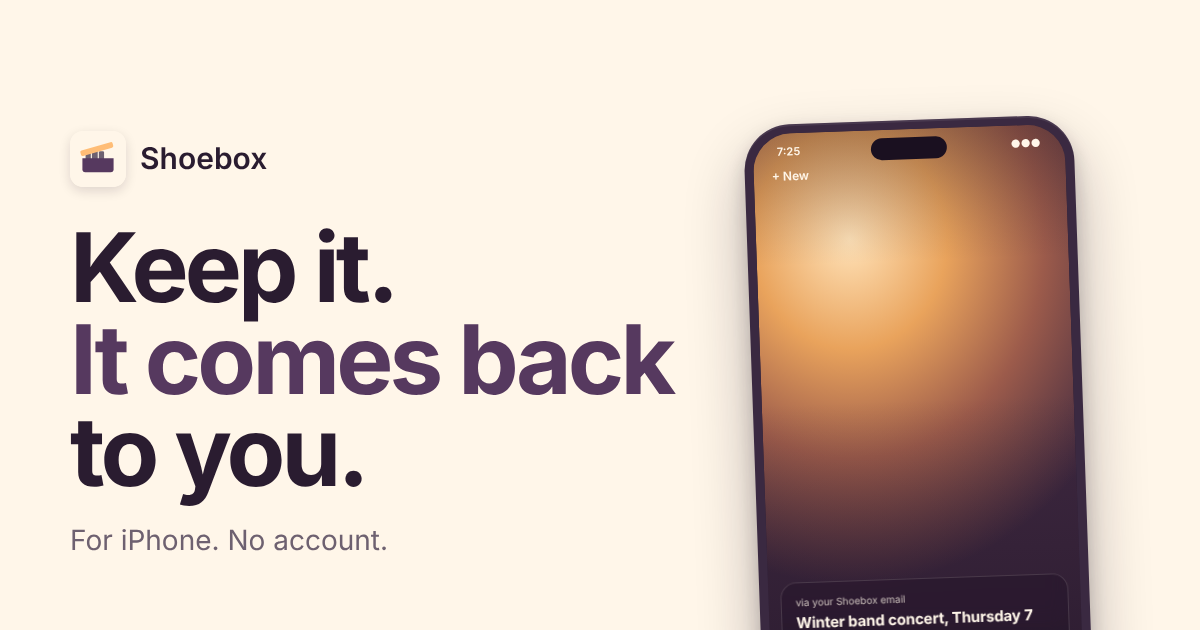
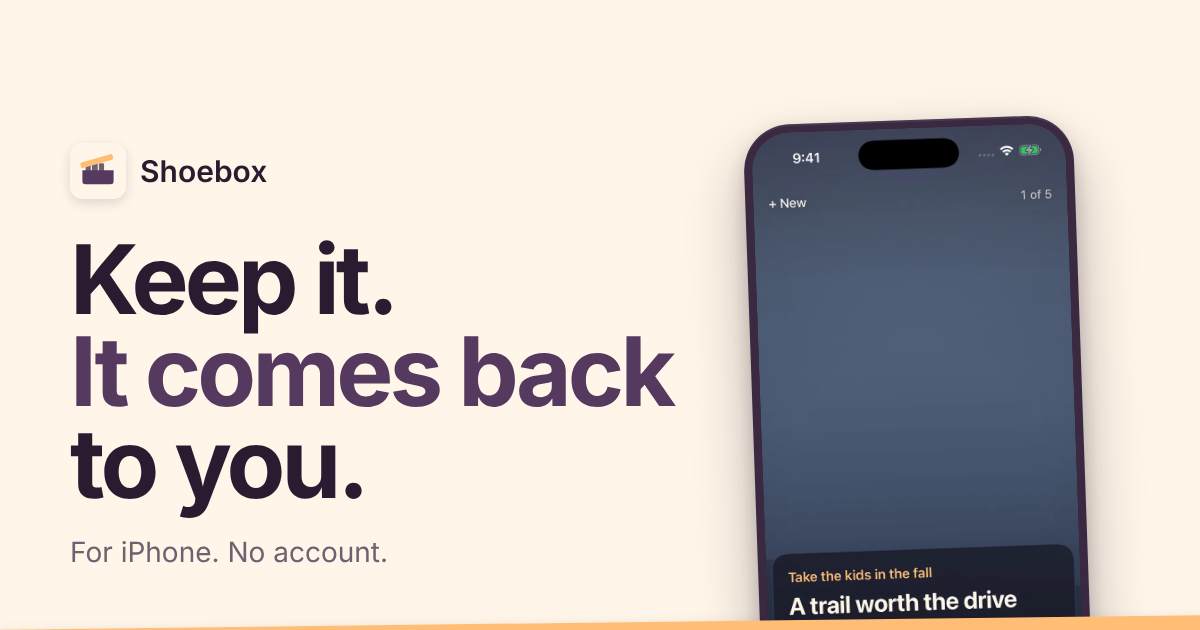
Real app screenshots on the welcome page and share image (#168)
Claude-Session: https://claude.ai/code/session_01JnUP83vyDZ5LaLaAc6odGW

diff --git a/welcome.html b/welcome.html
@@ -32,28 +32,7 @@
     <div class="ctas"><a class="btn lid" href="beta">Ask for the iPhone beta</a><a class="btn word" href="#moves">How it works</a></div>
     <p class="note">Free. No account. iPhone with iOS 26.</p>
   </div>
-  <div class="stage"><div class="phone" aria-hidden="true"><div class="scr dark">
-  <div class="isl"></div><div class="sb on-pic"><span>7:25</span><span>●●●</span></div>
-  <div class="pic sun"></div><div class="plus">+ New</div>
-  <div class="glass"><small>via your Shoebox email</small><b>Winter band concert, Thursday 7 pm</b><span>School gym. Be there by 6:30 in black and white.</span></div>
-  <div class="why">Bring the trumpet</div>
-  <div class="sbox"><div class="g"></div><div class="l"></div><div class="n">17</div></div>
-</div></div><div class="phone" aria-hidden="true"><div class="scr">
-  <div class="isl"></div><div class="sb"><span>7:25</span><span>●●●</span></div>
-  <div class="lst">
-    <div class="hd"><span>Today</span><span>Settings</span></div>
-    <h4>Shoebox <span>Put away (31)</span></h4>
-    <div class="sr">Search everything</div>
-    <div class="lb">Coming up</div>
-    <div class="row"><div class="dt"><small>NOV</small><strong>13</strong></div><div class="tx"><b>Winter band concert</b><span>Thursday, 7 pm</span></div></div>
-    <div class="row"><div class="dt"><small>NOV</small><strong>21</strong></div><div class="tx"><b>Field trip form due</b><span>Friday</span></div></div>
-    <div class="row"><div class="dt"><small>DEC</small><strong>4</strong></div><div class="tx"><b>Dentist, 3:15</b><span>a note</span></div></div>
-    <div class="lb">Everything else</div>
-    <div class="row"><div class="th" style="background:radial-gradient(circle at 30% 30%,#FFE2B8,#9C5B4B 75%)"></div><div class="tx"><b>Brown butter chocolate chip cookies</b><span>nytimes.com</span></div></div>
-    <div class="row"><div class="th" style="background:radial-gradient(circle at 60% 40%,#F2E6C4,#4F6A4A 80%)"></div><div class="tx"><b>Trails near Carolina Beach</b><span>a link</span></div></div>
-    <div class="row"><div class="th" style="background:radial-gradient(circle at 40% 30%,rgba(255,189,118,.6),#3B2A44 75%)"></div><div class="tx"><b>Gift idea: the blue lamp</b><span>a note</span></div></div>
-  </div>
-</div></div></div>
+  <div class="stage"><div class="phone shot"><div class="scr"><img src="site/shot-today.webp" alt="Shoebox Today: a saved trail post with its reason on top and the plum box below" width="720" height="1565" fetchpriority="high"></div></div><div class="phone shot"><div class="scr"><img src="site/shot-list.webp" alt="Your Shoebox: coming up, then everything else" width="720" height="1565" loading="lazy"></div></div></div>
 </div></section>
 
 <div class="box">
@@ -79,17 +58,7 @@
       <li><b>Or forward an email</b>Your Shoebox has its own address. Each email becomes one short post with only what matters, written on your phone. The email itself isn't kept.</li>
     </ul>
   </div>
-  <div class="stage"><div class="phone" aria-hidden="true"><div class="scr">
-  <div class="isl"></div><div class="sb"><span>7:25</span><span>●●●</span></div>
-  <div class="frm">
-    <div class="hd"><span>Cancel</span><span>Keep</span></div>
-    <h4>Keep something</h4>
-    <div class="f">Link or note<div>nytimes.com/cookies</div></div>
-    <div class="add"><span>Or add</span><span>Photos</span><span>Files</span><span>Camera</span></div>
-    <div class="f">Why are you keeping it?<div>For the bake sale</div></div>
-    <div class="f">Start showing it on<div><u>Pick a day</u></div></div>
-  </div>
-</div></div></div>
+  <div class="stage"><div class="phone shot"><div class="scr"><img src="site/shot-keep.webp" alt="Keep something: a link or note, photos, files, camera, your reason and a start day" width="720" height="1565" loading="lazy"></div></div></div>
 </div></section>
 
 <section class="band"><div class="wrap">
@@ -115,22 +84,7 @@
       <li><b>One search for all of it</b>Every link, note, photo and email, finished or not.</li>
     </ul>
   </div>
-  <div class="stage"><div class="phone" aria-hidden="true"><div class="scr dark">
-  <div class="isl"></div><div class="sb"><span>7:25</span><span>●●●</span></div>
-  <div class="lst">
-    <div class="hd"><span>Today</span><span>Settings</span></div>
-    <h4>Shoebox <span>Put away (31)</span></h4>
-    <div class="sr">Search everything</div>
-    <div class="lb">Coming up</div>
-    <div class="row"><div class="dt"><small>NOV</small><strong>13</strong></div><div class="tx"><b>Winter band concert</b><span>Thursday, 7 pm</span></div></div>
-    <div class="row"><div class="dt"><small>NOV</small><strong>21</strong></div><div class="tx"><b>Field trip form due</b><span>Friday</span></div></div>
-    <div class="row"><div class="dt"><small>DEC</small><strong>4</strong></div><div class="tx"><b>Dentist, 3:15</b><span>a note</span></div></div>
-    <div class="lb">Everything else</div>
-    <div class="row"><div class="th" style="background:radial-gradient(circle at 30% 30%,#FFE2B8,#9C5B4B 75%)"></div><div class="tx"><b>Brown butter chocolate chip cookies</b><span>nytimes.com</span></div></div>
-    <div class="row"><div class="th" style="background:radial-gradient(circle at 60% 40%,#F2E6C4,#4F6A4A 80%)"></div><div class="tx"><b>Trails near Carolina Beach</b><span>a link</span></div></div>
-    <div class="row"><div class="th" style="background:radial-gradient(circle at 40% 30%,rgba(255,189,118,.6),#3B2A44 75%)"></div><div class="tx"><b>Gift idea: the blue lamp</b><span>a note</span></div></div>
-  </div>
-</div></div></div>
+  <div class="stage"><div class="phone shot"><div class="scr"><img src="site/shot-list-dark.webp" alt="Your Shoebox in dark mode" width="720" height="1565" loading="lazy"></div></div></div>
 </div></section>
 
 <section class="band"><div class="wrap">

diff --git a/site/site.css b/site/site.css
@@ -253,3 +253,8 @@ form .btn { margin-top: 8px; }
   .foot .made { margin-left: 0; }
 }
 @media (prefers-reduced-motion: reduce) { * { scroll-behavior: auto !important; transition: none !important; animation: none !important; } }
+
+/* real screenshots in the phone frame */
+.phone.shot { aspect-ratio: 1206 / 2622; padding: 8px; }
+.phone.shot .scr { background: var(--night); }
+.phone.shot img { width: 100%; height: 100%; object-fit: cover; display: block; }
